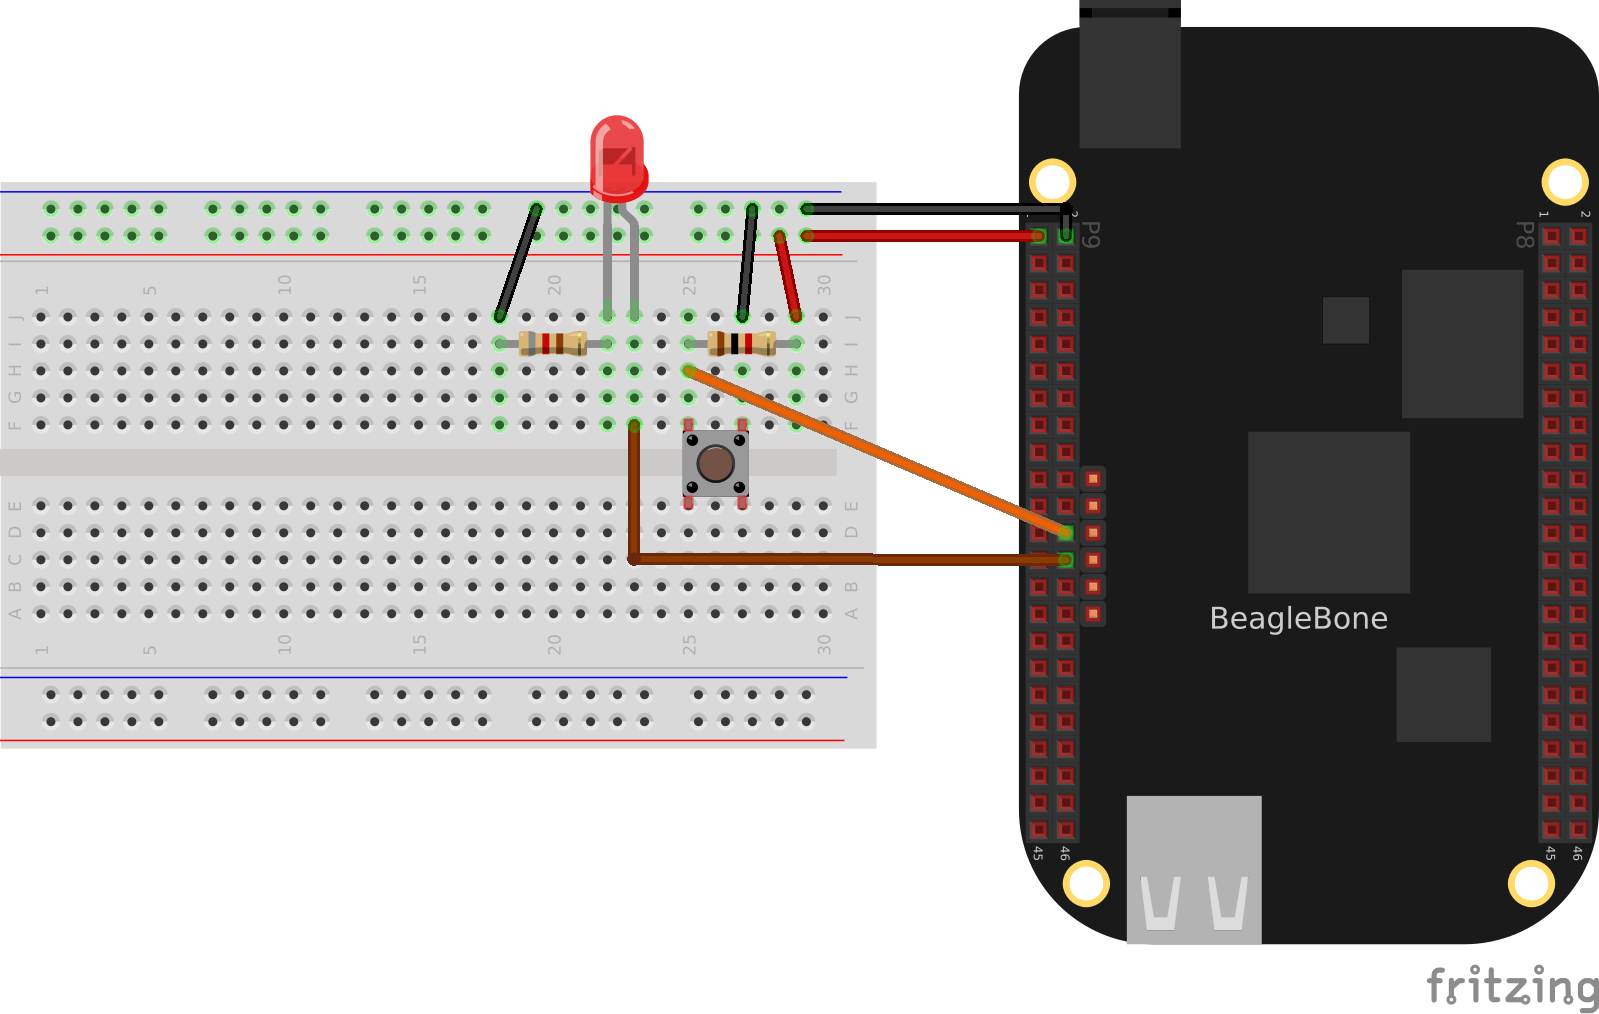
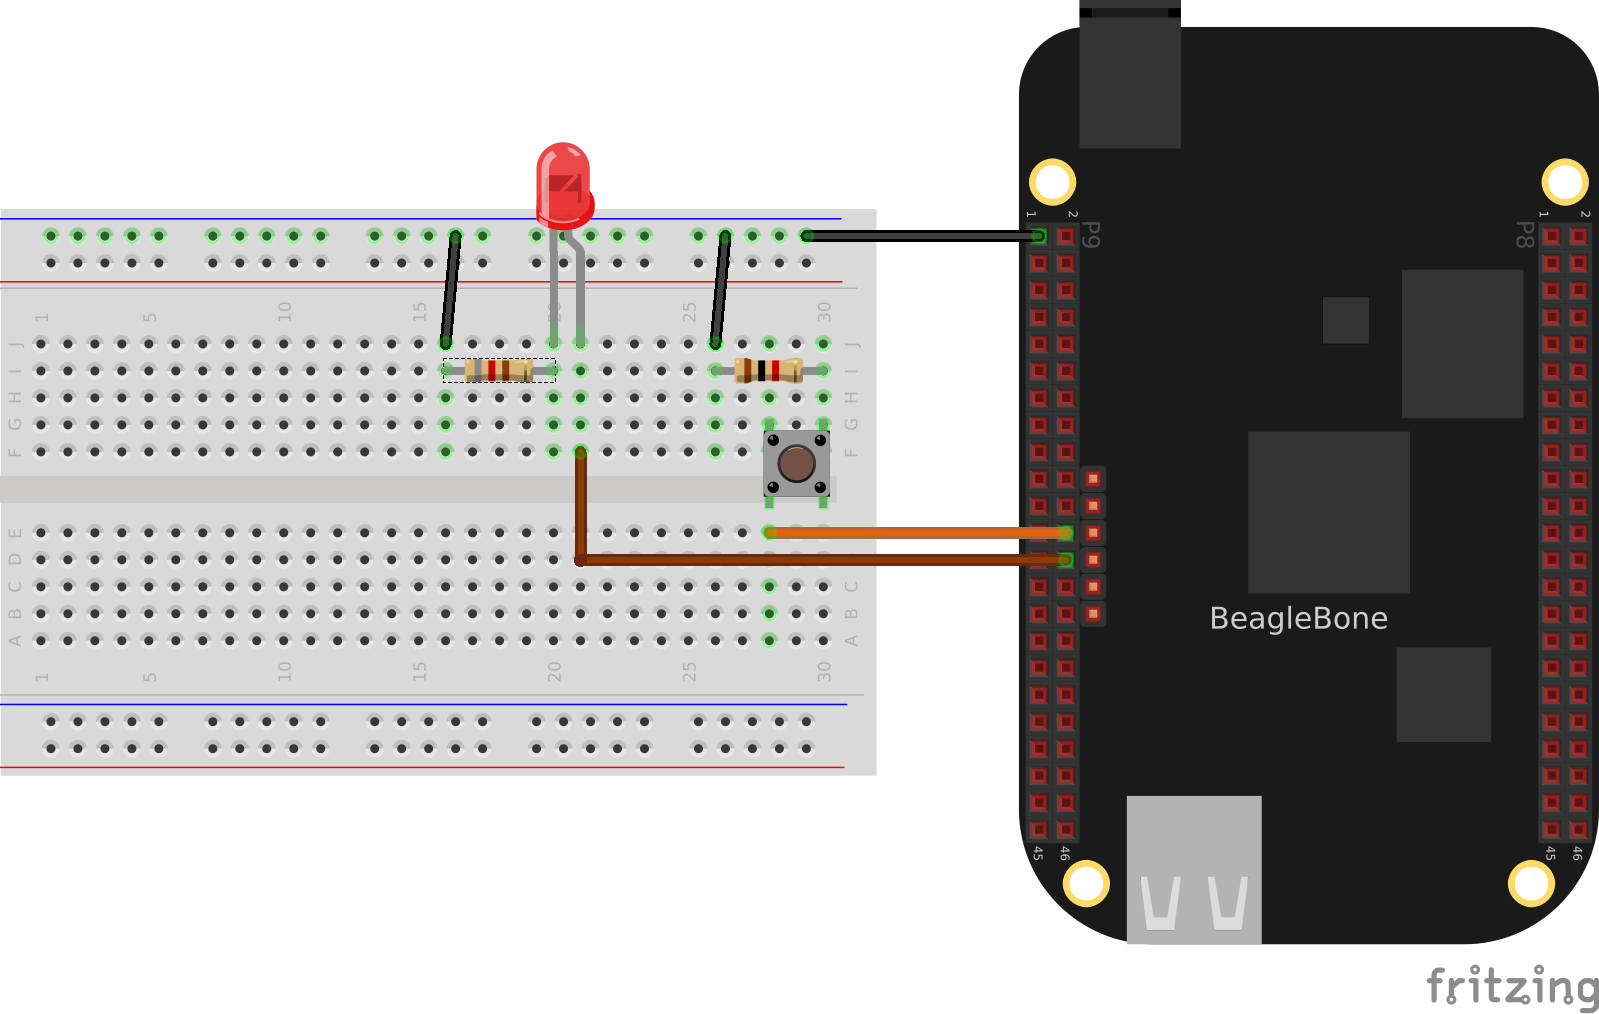
documentation

Changed region(s): [[0.0, 0.0917, 0.6742, 0.7643], [0.0919, 0.4892, 0.2145, 0.5197], [0.0306, 0.4892, 0.0613, 0.5197]]

diff --git a/doc/button.js b/doc/button.js
@@ -1,0 +1,19 @@
+var bot = require('../'),
+  button = new bot.Button(bot.pins.p9_24),
+  pressed = 0,
+  released = 0;
+
+function printInfo() {
+  console.log('pressed: ' + pressed + ', released: ' + released);
+}
+
+button.on('pressed', function () {
+  pressed += 1;
+  printInfo();
+});
+
+button.on('released', function () {
+  released += 1;
+  printInfo();
+});
+

diff --git a/doc/button.md b/doc/button.md
@@ -1,0 +1,55 @@
+## Class Button - Buttons and Switches
+
+The following circuit shows how to wire a button to pin 24 on the P9 header.
+
+<img src="https://github.com/fivdi/brkontru/raw/master/doc/button.png">
+
+The program below can be used with this circuit to print information every
+time the button is pressed or released.
+
+```js
+var bot = require('brkontru'),
+  button = new bot.Button(bot.pins.p9_24),
+  pressd = 0,
+  released = 0;
+
+function printInfo() {
+  console.log('pressed: ' + pressed + ', released: ' + 'released');
+}
+
+button.on('pressed', function () {
+  pressed += 1;
+  printInfo();
+});
+
+button.on('released', function () {
+  released += 1;
+  printInfo();
+});
+```
+
+### Constructor: Button(pin, options)
+- pin - a pin object
+- options - object (optional)
+
+Creates a Button object which will fire events when the corresponding button is
+pressed or released. A Button object is an EventEmitter.
+
+The following options are supported:
+- debounceInterval: number (optional, default 50)
+- pullType: number (optional, pullTypes.PULL_UP)
+- isActiveLow - boolean (optional, default true)
+
+### Event: 'ready'
+Emitted after the constructor has completed creation of the Button object
+indicating that the object is now ready for usage.
+
+### Event: 'pressed'
+Emitted when the button is pressed.
+
+### Event: 'released'
+Emitted when the button is released.
+
+### Event: 'error'
+Emitted on error.
+

diff --git a/doc/led.md b/doc/led.md
@@ -1,11 +1,14 @@
 ## Class Led - Light Emitting Diode
 
+<img src="https://github.com/fivdi/brkontru/raw/master/doc/led.png">
+
 ### Constructor: Led(pin, options)
 - pin - a pin object or one of Led.USR0, Led.USR1, Led.USR2, or Led.USR3
 - options - object (optional)
 
 Creates an Led object for controlling an LED. The LED can be either one of the
 four onboard user LEDs or an LED connected up to an appropriate header pin.
+An Led object is an EventEmitter.
 
 The following options are supported:
 - isActiveLow - boolean (optional, default false)
@@ -30,8 +33,8 @@ Double flash the LED like an actual heart beat (thump-thump-pause.)
 Flash the LED to indicate CPU activity.
 
 ### Event: 'ready'
-Emitted after the constructor has created the Led object to indicate that the
-object is now ready for usage.
+Emitted after the constructor has completed creation of the Led object
+indicating that the object is now ready for usage.
 
 ### Event: 'error'
 Emitted on error.

diff --git a/doc/pulltypes.md b/doc/pulltypes.md
@@ -1,7 +1,7 @@
 ## pullTypes - Pull Type Constants
 
-When creating some object types, for example, Buttons or Gpios, it's optionally
-possible to specify whether or not the internal pull-up or pull-down resistors
+When creating objects such as Buttons and Gpios there's a pullType option
+for specifying whether or not the internal pull-up or pull-down resistor
 should be enabled on the corresponding pin. The pullTypes object has three
 constants for specifying the pull type in such cases.
 

diff --git a/README.md b/README.md
@@ -138,7 +138,7 @@ ain.once('ready', function () {
 - pins
 - [pullTypes](https://github.com/fivdi/brkontru/blob/master/doc/pulltypes.md)
 - Ain
-- Button
+- [Button](https://github.com/fivdi/brkontru/blob/master/doc/button.md)
 - Gpio
 - [Led](https://github.com/fivdi/brkontru/blob/master/doc/led.md)
 - Pwm
